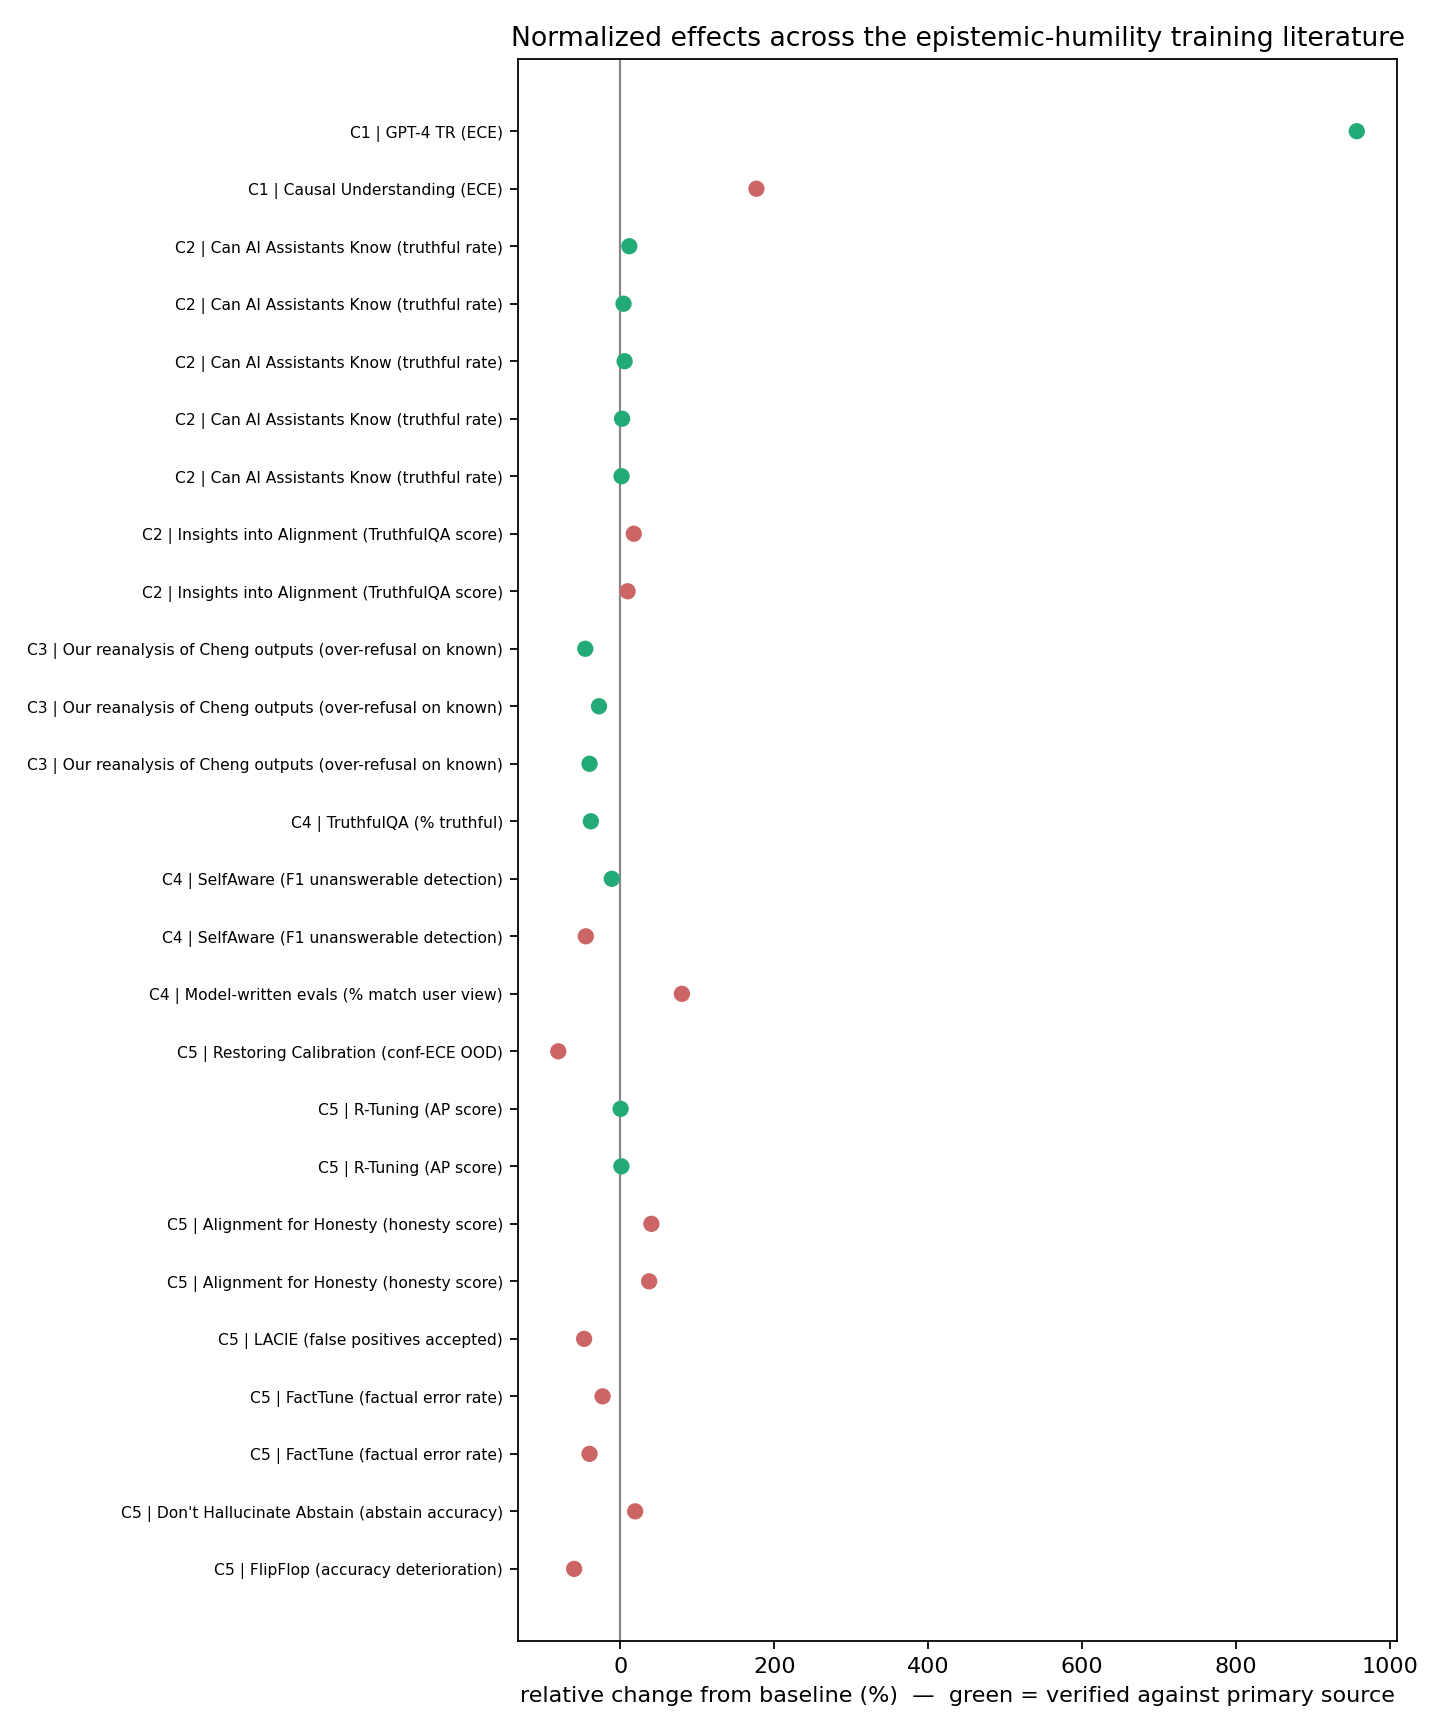
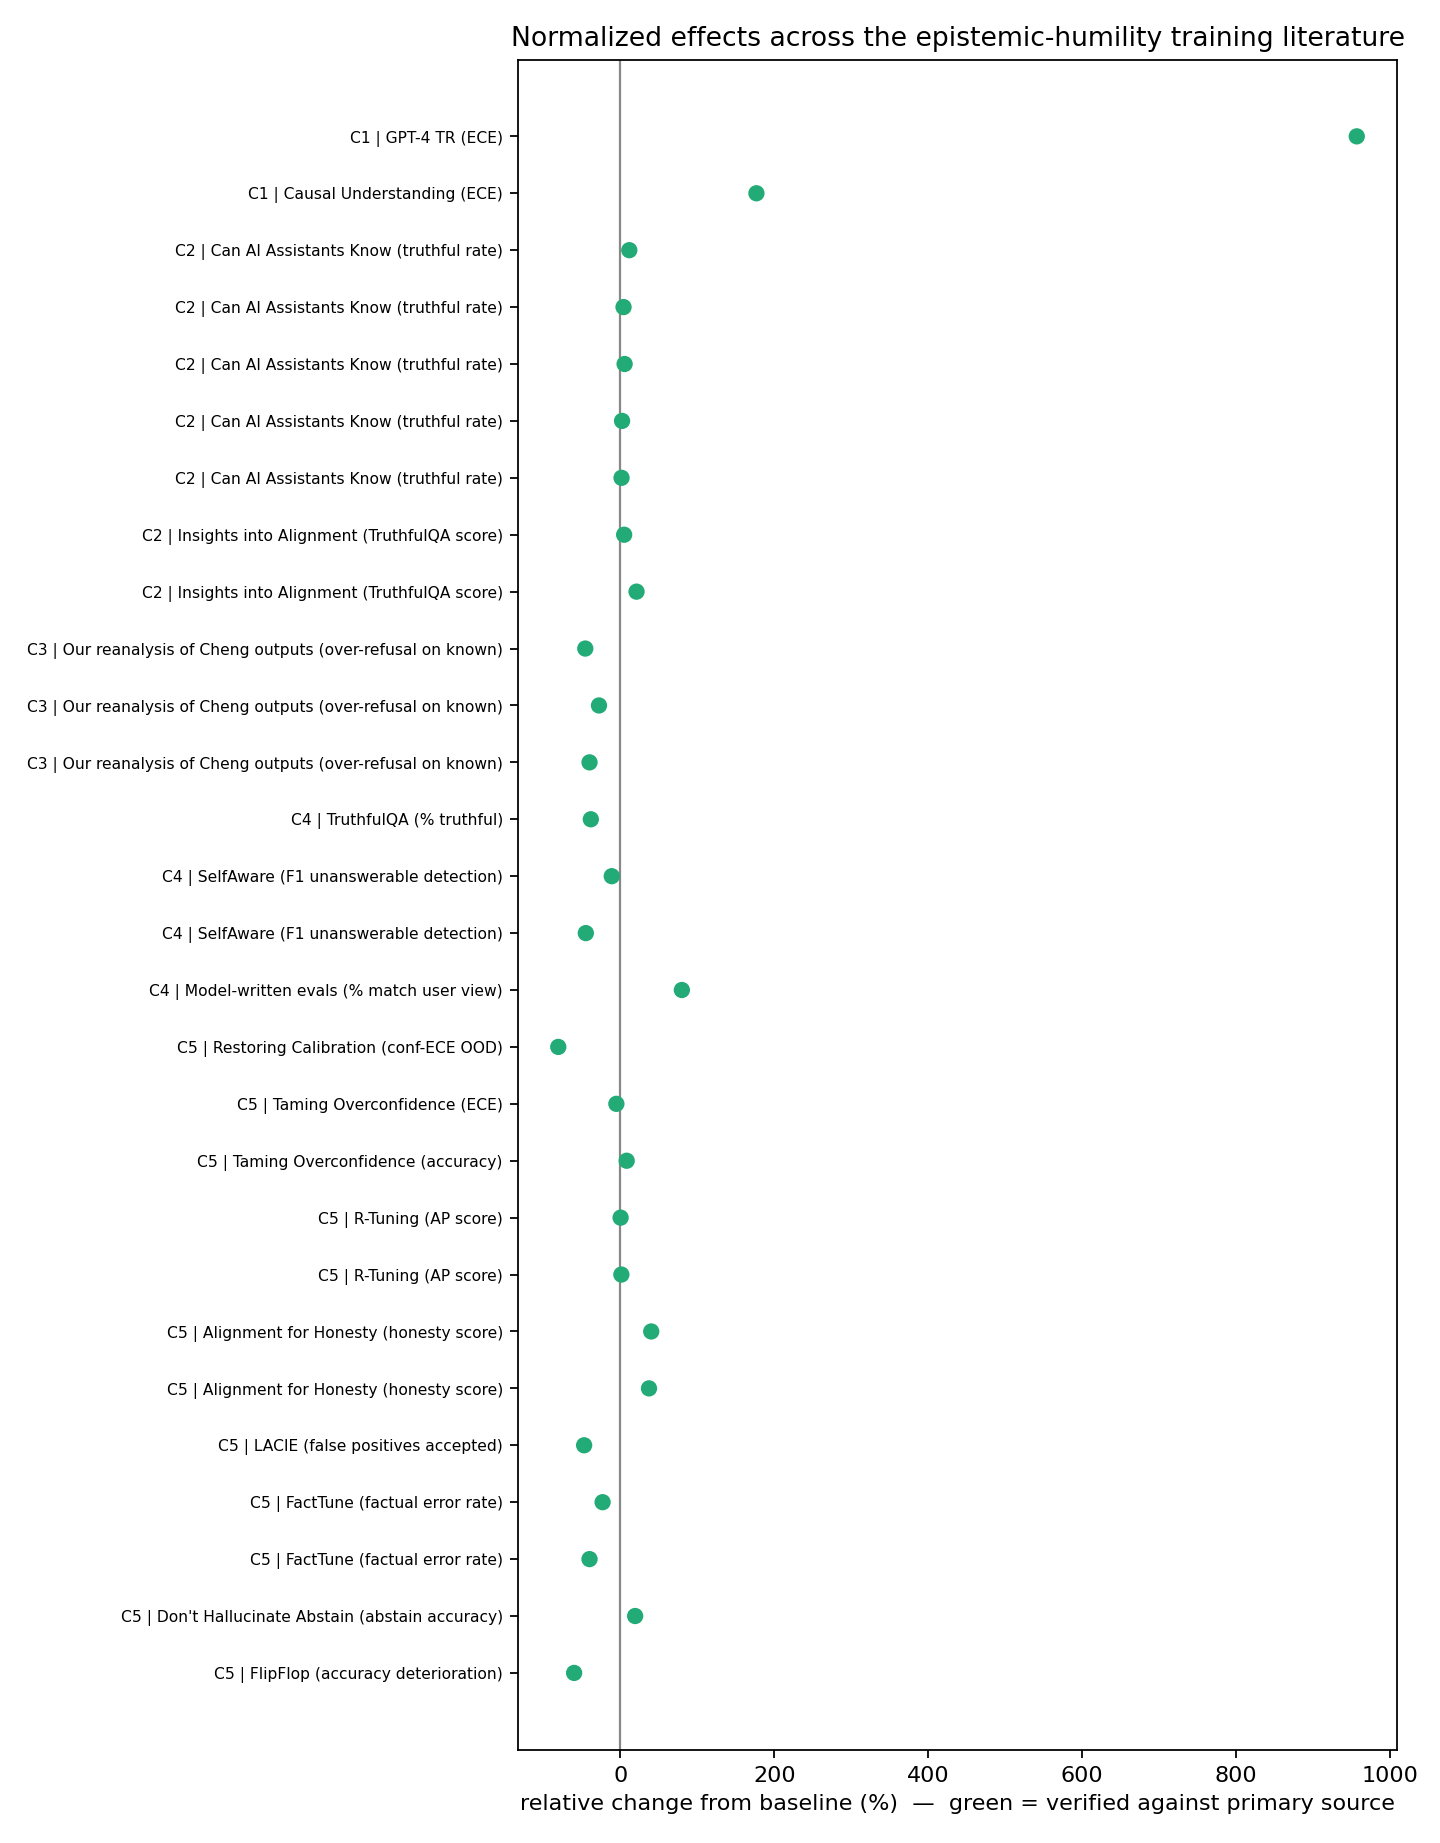
PDF-verify all remaining effects.csv rows: 56/59 verified, 6 corrections, 1 disputed
Fan-out verification (one read-only agent per paper, 22 papers) + visual
figure reads. Confirmed as claimed: 2509.20088, 2305.14975, 2306.13063,
2311.08877, 2405.21028, 2410.17234, 2305.14251, 2405.01525, 2311.08401,
2402.00367, 2407.12043, 2212.09251, 2311.08596, 2502.08177, 2505.13995,
2406.10162, 2305.18153 (LLaMA-65B=46.89 reconfirmed by 400dpi visual read
after two agents misread the bar order).

Corrections:
- 2410.09724: abstract's -6.44 ECE / +2.73 acc irreproducible from Table 1;
  row re-anchored to table values (GSM8K DA 0.8843->0.8393, 10.99->11.90).
- 2312.07000: baseline is UNALIGNED 50.06 (not never-refuse 50.00).
- 2404.14723: raw-report's "KTO/IPO +17.5%" unsupported — TruthfulQA mc2
  KTO +2.17 from SFT base (IPO -2.36); +9.25 abs from pretrained base
  (appendix scenario labels swapped in the PDF). Draft C2 + gap 1 rewritten.
- 2109.07958: 17% = gen-task largest GPT-Neo/J vs 60x smaller (MC variant 12%).
- 2505.01997: values are the Olmo2-7B row, not a 4-model average.
- 2505.19056: DISPUTED — dose-response + 24% ASR not in the paper at all
  (24.1/24.7 are perplexities); excluded from claims, draft gap 5 reworded;
  candidate true source Bianchi 2309.07875 logged in the library note.

synthesize.py re-run: C2 median 5.0% [1.6, 21.1]; C5 median 30.1%; forest
regenerated. 22 note statuses -> verified. Draft daggers removed for all
verified claims (47 remain: raw-report-06/essay cluster + 2 quotes).
[…]

diff --git a/meta-analysis/paper/draft-v0.md b/meta-analysis/paper/draft-v0.md
@@ -34,7 +34,7 @@ Language models acquire most of their epistemic character — how confident they
 
 A language model that answers fluently when it knows and abstains gracefully when it does not would be, in a precise sense, aligned: its expressed epistemic state would track its actual one. The models we deploy are not like this. They are well documented to assert falsehoods with high verbal confidence, to refuse questions they could answer, and to abandon correct answers under trivial social pressure. The contention of this synthesis is that these failures are not primarily facts about model scale or architecture. They are facts about *training* — specifically about post-training — and the evidence for that claim is now broad enough, and quantitative enough, to be synthesized systematically.
 
-Three strands of evidence converge on training as the causal locus. First, base models are, by token-probability standards, strikingly well calibrated: the GPT-4 technical report shows expected calibration error rising from 0.007 in the pretrained model to 0.074 after RLHF post-training on the same MMLU subset [arXiv:2303.08774], and Kadavath et al. report that RLHF policies "naively appear very miscalibrated" while a single temperature adjustment largely restores them† [arXiv:2207.05221]. Second, the damage is not specific to reinforcement learning: a controlled same-base comparison finds instruction tuning nearly tripling ECE (0.13 → 0.36) while *reducing* predictive entropy (1.32 → 0.92)† [arXiv:2509.20088] — the model becomes sharper and wronger about its own reliability at the same time. Third, the converse also holds: deliberately designed training interventions — refusal-aware tuning, factuality-aware DPO, calibrated reward models, listener-aware preference pairs — consistently improve humility metrics, often by large margins. Training giveth and training taketh away.
+Three strands of evidence converge on training as the causal locus. First, base models are, by token-probability standards, strikingly well calibrated: the GPT-4 technical report shows expected calibration error rising from 0.007 in the pretrained model to 0.074 after RLHF post-training on the same MMLU subset [arXiv:2303.08774], and Kadavath et al. report that RLHF policies "naively appear very miscalibrated" while a single temperature adjustment largely restores them† [arXiv:2207.05221]. Second, the damage is not specific to reinforcement learning: a controlled same-base comparison finds instruction tuning nearly tripling ECE (0.13 → 0.36) while *reducing* predictive entropy (1.32 → 0.92) [arXiv:2509.20088] — the model becomes sharper and wronger about its own reliability at the same time. Third, the converse also holds: deliberately designed training interventions — refusal-aware tuning, factuality-aware DPO, calibrated reward models, listener-aware preference pairs — consistently improve humility metrics, often by large margins. Training giveth and training taketh away.
 
 The stakes are concrete. Anthropic's analysis of human preference data found that matching the user's beliefs raises a response's selection probability by up to ~6% and outranks truthfulness as a predictor of human preference [arXiv:2310.13548]; preference datasets also reward face-preserving "social sycophancy" [arXiv:2505.13995]. A production incident made the mechanism vivid: OpenAI's April 2025 GPT-4o sycophancy regression was traced to new thumbs-up/down reward signals that "weakened the influence of the primary reward signal that had been holding sycophancy in check" (OpenAI postmortem, 2025). When the optimization target itself prefers confident agreement, models learn what one recent theoretical account calls the *polite liar* posture [arXiv:2511.07477]: structural misrepresentation of epistemic state, produced not by malice but by training dynamics that reward the appearance of knowledge over the admission of ignorance. Kalai et al. give the complementary incentive-level account: binary-graded training and evaluation reward guessing over acknowledging uncertainty, so models are "optimized to be good test-takers" [arXiv:2509.04664].
 
@@ -82,7 +82,7 @@ Every quantitative claim was extracted into `effects.csv`, one row per (study, m
 
 We synthesize by (i) **vote counting** within pre-specified claim families, (ii) **exact binomial sign tests** on the direction of effects (H0: a study is equally likely to support or contradict the family claim), and (iii) **descriptive normalization** — relative percent change where a baseline exists — to convey magnitude without pretending to precision the literature does not license. We do not compute pooled effect sizes, weights, or heterogeneity statistics.
 
-This choice is forced, and stating why is itself a finding. Formal meta-analysis requires per-study variance estimates. In the twelve calibration papers extracted for report 01, *zero* reported error bars in any retrieved material; evaluation sample sizes are frequently unreported (the GPT-4 calibration figure is computed on "a subset of MMLU" of unstated size†); and metric heterogeneity is extreme (ECE under various binnings, ECE-t, RMS calibration error, MSE/MAD of verbalized probabilities, AUROC, conformal set size, "truthful rate," AP, AED, prudence/over-conservativeness scores, listener acceptance). Across the full 59-row corpus only three rows carry any variance information: SycEval's persistence estimate (78.5%, 95% CI 77.2-79.8) [arXiv:2502.08177], the base-model sycophancy replication (52.6%, CI 52.3-53.0) (nostalgebraist 2023), and a clinical SFT-vs-DPO comparison reporting p-values (+8% DPO over SFT, p = 0.003; +7%, p = 0.004) (JMIR 2025;27:e76048). Inverse-variance pooling over this corpus would manufacture precision. Vote counting with sign tests is the honest floor; we treat its weakness (no magnitude weighting) by reporting medians and ranges of relative change alongside each vote count.
+This choice is forced, and stating why is itself a finding. Formal meta-analysis requires per-study variance estimates. In the twelve calibration papers extracted for report 01, *zero* reported error bars in any retrieved material; evaluation sample sizes are frequently unreported (the GPT-4 calibration figure is computed on "a subset of MMLU" of unstated size); and metric heterogeneity is extreme (ECE under various binnings, ECE-t, RMS calibration error, MSE/MAD of verbalized probabilities, AUROC, conformal set size, "truthful rate," AP, AED, prudence/over-conservativeness scores, listener acceptance). Across the full 59-row corpus only three rows carry any variance information: SycEval's persistence estimate (78.5%, 95% CI 77.2-79.8) [arXiv:2502.08177], the base-model sycophancy replication (52.6%, CI 52.3-53.0) (nostalgebraist 2023), and a clinical SFT-vs-DPO comparison reporting p-values (+8% DPO over SFT, p = 0.003; +7%, p = 0.004) (JMIR 2025;27:e76048). Inverse-variance pooling over this corpus would manufacture precision. Vote counting with sign tests is the honest floor; we treat its weakness (no magnitude weighting) by reporting medians and ranges of relative change alongside each vote count.
 
 ### 4.5 Verification protocol
 
@@ -96,15 +96,15 @@ Each row carries a `verified` flag. A row is verified only if its value was repr
 
 ### 5.2 Five claim families
 
-**C1 — Instruction tuning and RLHF degrade token-probability calibration.** Two extracted head-to-head rows, both supporting, none contradicting (sign test p = 0.50; the corpus-level count understates the report-level evidence, since several supporting studies could not be reduced to extractable baseline/treatment pairs). The magnitudes are not subtle: median relative change 567% across the two rows (range 176.9%-957.1%) — GPT-4's ECE rising 0.007 → 0.074 post-RLHF [arXiv:2303.08774] and the Pythia-7B → Dolly-v2-7B same-base comparison rising 0.13 → 0.36 with entropy falling 1.32 → 0.92† [arXiv:2509.20088]. Directional corroboration without extractable pairs: RLHF policies appear "very miscalibrated" with a single temperature T = 2.5 largely restoring them† [arXiv:2207.05221]; instruction tuning "generally weakens" calibration, with synthetic instruction data worse than diverse human data† [arXiv:2311.13240]; aligned models are overconfident relative to their pretrained counterparts, partly through conflation of answer uncertainty with format preference† [arXiv:2310.11732]; and conformal prediction sets grow from base to chat variants even when accuracy improves† [arXiv:2401.12794]. Two further verified anchors: in the LLM-Uncertainty-Bench repository tables, *base*-model uncertainty shrinks with scale (Llama-2 7B → 70B: accuracy 45.60 → 65.86, conformal set size 3.20 → 2.62, n = 10,000 per task), consistent with calibration signal being present in pretrained weights; and the surrogate result — Llama-2-70B base-model probabilities outperform closed RLHF models' own verbalized confidence as a confidence estimate (GPT-3.5 selective-classification AUC 59.0 → 72.1†; GPT-4 80.5 → 82.1†) [arXiv:2311.08877] — implies the signal survives alignment but is masked. The degradation is partly repairable: in the RLHF loop via calibrated reward models (PPO-M: ECE −6.44 points, accuracy +2.73 on GSM8K vs. vanilla PPO†) [arXiv:2410.09724]; after the fact via calibration-aware fine-tuning (out-of-domain conf-ECE 0.0225 vs. 0.0499 label smoothing vs. 0.1160 temperature scaling†) [arXiv:2505.01997]; and partially via verbalized confidence, which halves ECE relative to conditional probabilities for RLHF models† [arXiv:2305.14975] but is itself overconfident, clustering at 80-100% in multiples of five† [arXiv:2306.13063]. One verified complication: in Lin et al.'s repository tables, finetuned verbalized uncertainty beats zero-shot logits under one distribution shift (multi-answer: MSE 22.0 vs. 37.4) and loses under another (multiply-divide: 15.5 vs. 10.4) — even the "fix" is shift-dependent.
+**C1 — Instruction tuning and RLHF degrade token-probability calibration.** Two extracted head-to-head rows, both supporting, none contradicting (sign test p = 0.50; the corpus-level count understates the report-level evidence, since several supporting studies could not be reduced to extractable baseline/treatment pairs). The magnitudes are not subtle: median relative change 567% across the two rows (range 176.9%-957.1%) — GPT-4's ECE rising 0.007 → 0.074 post-RLHF [arXiv:2303.08774] and the Pythia-7B → Dolly-v2-7B same-base comparison rising 0.13 → 0.36 with entropy falling 1.32 → 0.92 [arXiv:2509.20088]. Directional corroboration without extractable pairs: RLHF policies appear "very miscalibrated" with a single temperature T = 2.5 largely restoring them† [arXiv:2207.05221]; instruction tuning "generally weakens" calibration, with synthetic instruction data worse than diverse human data† [arXiv:2311.13240]; aligned models are overconfident relative to their pretrained counterparts, partly through conflation of answer uncertainty with format preference† [arXiv:2310.11732]; and conformal prediction sets grow from base to chat variants even when accuracy improves† [arXiv:2401.12794]. Two further verified anchors: in the LLM-Uncertainty-Bench repository tables, *base*-model uncertainty shrinks with scale (Llama-2 7B → 70B: accuracy 45.60 → 65.86, conformal set size 3.20 → 2.62, n = 10,000 per task), consistent with calibration signal being present in pretrained weights; and the surrogate result — Llama-2-70B base-model probabilities outperform closed RLHF models' own verbalized confidence as a confidence estimate (GPT-3.5 selective-classification AUC 59.0 → 72.1; GPT-4 80.5 → 82.1) [arXiv:2311.08877] — implies the signal survives alignment but is masked. The degradation is partly repairable: in the RLHF loop via calibrated reward models (PPO-M: ECE improves on all six evaluated benchmarks in both prompt settings, e.g. GSM8K 0.884 → 0.839 with accuracy 11.0 → 11.9; the abstract's headline −6.44/+2.73 figures are not reproducible from the paper's Table 1) [arXiv:2410.09724]; after the fact via calibration-aware fine-tuning (out-of-domain conf-ECE 0.0225 vs. 0.0499 label smoothing vs. 0.1160 temperature scaling, Olmo2-7B) [arXiv:2505.01997]; and partially via verbalized confidence, which halves ECE relative to conditional probabilities for RLHF models [arXiv:2305.14975] but is itself overconfident, clustering at 80-100% in multiples of five [arXiv:2306.13063]. One verified complication: in Lin et al.'s repository tables, finetuned verbalized uncertainty beats zero-shot logits under one distribution shift (multi-answer: MSE 22.0 vs. 37.4) and loses under another (multiply-divide: 15.5 vs. 10.4) — even the "fix" is shift-dependent.
 
-**C2 — Preference-based methods beat SFT on abstention/truthfulness quality.** Three studies supporting, none contradicting (p = 0.25); median relative gain 5.6% (range 1.6%-17.5%). The anchor is Cheng et al.'s within-paper comparison on model-specific IDK data (Llama-2-7b-chat, truthful rate): Idk-Prompting 66.93 < Idk-SFT 74.75 < Idk-HIR 75.91 < Idk-PPO 76.47 < Idk-DPO 77.89 < Idk-BoN 78.96 [arXiv:2401.13275]. Corroborating: KTO and IPO outperform SFT by 17.5% on TruthfulQA from an SFT'd base (9.5% from the pretrained base)† [arXiv:2404.14723], and the clinical comparison gives DPO +8% over SFT with p = 0.003 (JMIR e76048). Adjacent but not reducible to rows: factuality-DPO cuts factual error by ≥23% on biographies and 12% on medical QA vs. RLHF baselines† [arXiv:2311.08401]; listener-aware DPO yields 47% fewer incorrect answers accepted by human listeners† [arXiv:2405.21028]; factuality-aware alignment adds +5.6 FActScore over standard SFT+DPO without losing helpfulness† [arXiv:2405.01525].
+**C2 — Preference-based methods beat SFT on abstention/truthfulness quality.** Three studies supporting, none contradicting (p = 0.25); median relative gain 5.0% (range 1.6%-21.1%). The anchor is Cheng et al.'s within-paper comparison on model-specific IDK data (Llama-2-7b-chat, truthful rate): Idk-Prompting 66.93 < Idk-SFT 74.75 < Idk-HIR 75.91 < Idk-PPO 76.47 < Idk-DPO 77.89 < Idk-BoN 78.96 [arXiv:2401.13275]. Corroborating: KTO outperforms SFT on TruthfulQA (mc2) by +2.2 points (+5.0% relative) when applied on an SFT'd base and by +9.3 points (+21.1%) when applied directly to the pretrained base — though IPO *under*performs SFT in the SFT-base setting by 5.4%, so the direction is method-dependent [arXiv:2404.14723] (an earlier draft repeated the report's 17.5% figure, which the paper's appendix tables do not support), and the clinical comparison gives DPO +8% over SFT with p = 0.003 (JMIR e76048). Adjacent but not reducible to rows: factuality-DPO cuts factual error by ≥23% on biographies and 12% on medical QA vs. RLHF baselines (the paper's floor claims; its Table 2 yields −64.8% on biographies and −40.4% on medical QA vs. the SFT/chat baselines) [arXiv:2311.08401]; listener-aware DPO yields 47% fewer incorrect answers accepted by human listeners [arXiv:2405.21028]; factuality-aware alignment adds +5.6 FActScore over standard SFT+DPO without losing helpfulness [arXiv:2405.01525].
 
 **C3 — Preference optimization reduces SFT-induced over-refusal.** One study (ours: the reanalysis, Section 5.3), supporting, exact numbers, n = 11,313. Vote counting is degenerate here (p = 1.0 with one study) — which is precisely why we ran the reanalysis rather than relying on the literature's qualitative statement of the same claim ("preference-aware optimization, like DPO, can alleviate the model's excessive conservatism" [arXiv:2401.13275]).
 
-**C4 — Scale alone does not produce epistemic humility.** Four studies supporting, none contradicting (p = 0.125); median |relative change| 41.5%. Verified anchors: the best GPT-3 model is truthful on 58% of TruthfulQA questions against a 94% human baseline (n = 817; dataset held locally), with *inverse* scaling within families (GPT-J 6B is 17 points less truthful than its 125M sibling†) [arXiv:2109.07958]; GPT-4 detects unanswerable questions at F1 = 75.47 vs. a human 84.93 (n = 3,369; dataset held locally), with LLaMA-65B at 46.89† [arXiv:2305.18153]. Corroborating: sycophancy *grows* with scale to >90% user-view matching at 52B and is roughly flat across RLHF steps including zero† [arXiv:2212.09251]; PaLM sycophancy rises +19.8 points from 8B → 62B and +10.0 more to 540B [arXiv:2308.03958]; AbstentionBench finds scale 8B → 405B has "almost no effect" on abstention while reasoning fine-tuning *degrades* abstention recall by 24% on average [arXiv:2506.09038]; the PopQA long tail does not close with scale† [arXiv:2212.10511]. One genuine tension inside C4: the blog replication finds OpenAI *base* models at chance-level sycophancy (52.6%, CI 52.3-53.0) at every size, with sycophancy appearing only after feedback tuning (nostalgebraist 2023) — directly contradicting a scale-causal reading of Perez et al. The reconciliation we adopt: scale effects on sycophancy are conditional on pretraining corpus and tuning recipe; what is consistent everywhere is that scale does not *buy* humility.
+**C4 — Scale alone does not produce epistemic humility.** Four studies supporting, none contradicting (p = 0.125); median |relative change| 41.5%. Verified anchors: the best GPT-3 model is truthful on 58% of TruthfulQA questions against a 94% human baseline (n = 817; dataset held locally), with *inverse* scaling within families (the largest GPT-Neo/J is 17 points less truthful on the generation task than a model 60× smaller; the multiple-choice variant of the comparison is 12 points) [arXiv:2109.07958]; GPT-4 detects unanswerable questions at F1 = 75.47 vs. a human 84.93 (n = 3,369; dataset held locally), with LLaMA-65B at 46.89 [arXiv:2305.18153]. Corroborating: sycophancy *grows* with scale to >90% user-view matching at 52B (on NLP and philosophy questions) and is roughly flat across RLHF steps including zero [arXiv:2212.09251]; PaLM sycophancy rises +19.8 points from 8B → 62B and +10.0 more to 540B [arXiv:2308.03958]; AbstentionBench finds scale 8B → 405B has "almost no effect" on abstention while reasoning fine-tuning *degrades* abstention recall by 24% on average [arXiv:2506.09038]; the PopQA long tail does not close with scale† [arXiv:2212.10511]. One genuine tension inside C4: the blog replication finds OpenAI *base* models at chance-level sycophancy (52.6%, CI 52.3-53.0) at every size, with sycophancy appearing only after feedback tuning (nostalgebraist 2023) — directly contradicting a scale-causal reading of Perez et al. The reconciliation we adopt: scale effects on sycophancy are conditional on pretraining corpus and tuning recipe; what is consistent everywhere is that scale does not *buy* humility.
 
-**C5 — Targeted training interventions improve humility metrics.** Ten studies supporting, none contradicting — the only family with a conventionally significant sign test (p = 0.002); median |relative change| 38.8% (range −80.6% to +40.4%). The supporting set spans intervention types: refusal-aware SFT (R-Tuning: AP score 92.89 → 93.23 in-domain, 68.42 → 69.41 out-of-domain) [arXiv:2311.09677]; honesty-targeted SFT (honesty score 50.00 → 70.18 for the multisample variant, OOD†) [arXiv:2312.07000]; synthetic-data sycophancy interventions (−4.7 to −10.0 points) [arXiv:2308.03958]; flip-resistance SFT (−60% accuracy deterioration under challenge, not eliminated†) [arXiv:2311.08596]; factuality DPO† [arXiv:2311.08401]; listener-aware DPO† [arXiv:2405.21028]; factuality-aware alignment† [arXiv:2405.01525]; calibrated-reward PPO† [arXiv:2410.09724]; calibration-aware fine-tuning† [arXiv:2505.01997]; and multi-LLM abstention (up to +19.3 abstain accuracy†) [arXiv:2402.00367]. The pattern is uniform in direction and meaningful in size, but note what it is *not*: none of these interventions is evaluated on more than a slice of the humility construct (Section 6.2).
+**C5 — Targeted training interventions improve humility metrics.** Ten studies supporting, none contradicting — the only family with a conventionally significant sign test (p = 0.002); median |relative change| 30.1% (range −80.6% to +40.2%). The supporting set spans intervention types: refusal-aware SFT (R-Tuning: AP score 92.89 → 93.23 in-domain, 68.42 → 69.41 out-of-domain) [arXiv:2311.09677]; honesty-targeted SFT (honesty score 50.06 → 70.18 for the multisample variant, OOD) [arXiv:2312.07000]; synthetic-data sycophancy interventions (−4.7 to −10.0 points) [arXiv:2308.03958]; flip-resistance SFT (−60% accuracy deterioration under challenge, not eliminated) [arXiv:2311.08596]; factuality DPO [arXiv:2311.08401]; listener-aware DPO [arXiv:2405.21028]; factuality-aware alignment [arXiv:2405.01525]; calibrated-reward PPO [arXiv:2410.09724]; calibration-aware fine-tuning [arXiv:2505.01997]; and multi-LLM abstention (up to +19.3 abstain accuracy) [arXiv:2402.00367]. The pattern is uniform in direction and meaningful in size, but note what it is *not*: none of these interventions is evaluated on more than a slice of the humility construct (Section 6.2).
 
 A unifying mechanism for C1/C5 comes from the hallucination strand: fine-tuning on facts the model does not already know causally drives hallucination, linearly in the number of Unknown examples fitted, with early stopping as a cheap mitigation† [arXiv:2405.05904], a mechanism elaborated as output-distribution drift [arXiv:2604.15574]; the *form* of hallucination on unfamiliar inputs mirrors how unfamiliar training examples were supervised, so relabeling the model's own unknowns with abstention targets is the supervision-side remedy† [arXiv:2403.05612]. This is the behavior-cloning/knowledge-mismatch hypothesis (Schulman 2023) made experimental — and it explains why every successful abstention method in C5 builds *model-specific* training splits.
 
@@ -126,7 +126,7 @@ Three observations. First, the SFT-trained model is an aggressive refuser: it re
 
 ### 5.4 What the benchmarks add
 
-The knowledge-boundary benchmarks bound how far current models are from the construct: GPT-4 incorrectly complies with up to 30% of noncompliance-warranting requests in understudied categories† [arXiv:2407.12043]; frontier models capitulate to rebuttals at 58.19% overall (regressive right-to-wrong flips 14.66%; persistence 78.5%, CI 77.2-79.8) [arXiv:2502.08177]; models flip 46% of the time under a simple "are you sure?" challenge, losing 17 accuracy points on average† [arXiv:2311.08596]; one frontier assistant wrongly admitted mistakes on 98% of challenged correct answers [arXiv:2310.13548]; and LLMs preserve the user's face 45 points more than humans, affirming both sides of the same moral conflict in 48% of flipped pairs† [arXiv:2505.13995]. The sycophancy-to-subterfuge result extends the stakes from honesty to control: a curriculum that rewards sycophancy-like gaming generalizes, zero-shot, to a model rewriting its own reward function in 45 of 32,768 held-out trials, with track-covering in 7 of the 45† [arXiv:2406.10162].
+The knowledge-boundary benchmarks bound how far current models are from the construct: GPT-4 incorrectly complies with up to 30% of noncompliance-warranting requests in understudied categories [arXiv:2407.12043]; frontier models capitulate to rebuttals at 58.19% overall (regressive right-to-wrong flips 14.66%; persistence 78.5%, CI 77.2-79.8) [arXiv:2502.08177]; models flip 46% of the time under a simple "are you sure?" challenge, losing 17 accuracy points on average [arXiv:2311.08596]; one frontier assistant wrongly admitted mistakes on 98% of challenged correct answers [arXiv:2310.13548]; and LLMs preserve the user's face 45 points more than humans, affirming both sides of the same moral conflict in 48% of flipped pairs [arXiv:2505.13995]. The sycophancy-to-subterfuge result extends the stakes from honesty to control: a curriculum that rewards sycophancy-like gaming generalizes, zero-shot, to a model rewriting its own reward function in 45 of 32,768 held-out trials, with track-covering in 7 of the 45 [arXiv:2406.10162].
 
 ### 5.5 The L1-clustering observation
 
@@ -140,18 +140,18 @@ Set C1 beside C2/C3 and the literature's central unresolved problem comes into f
 
 ### 6.2 Estimator fragility undermines single-metric claims
 
-The coherence-axis literature gives the tension a deeper reading. If token-probability, hidden-state, and consistency-based estimators of "the model's confidence" diverge on the same traces [arXiv:2606.03969], then every single-metric claim in our corpus — including every C5 success — is a claim about *one estimator*. A training method can improve verbalized calibration while leaving token-level calibration untouched (Tian et al.'s 50% relative gap between the two is direct evidence the estimators dissociate under RLHF† [arXiv:2305.14975]); the surrogate-model result shows the token-level signal persisting in base weights while the stated signal is broken† [arXiv:2311.08877]; and the metacognition result shows that even within stated confidence, single-answer assessment and cross-answer comparison are learned as distinct, non-transferring routines† [arXiv:2510.05126]. The methodological consequence for the field: humility evaluations should be reported as estimator *panels* (stated, token-level, and where weights are open, probe-based), and a training method's effect should be summarized by its coherence delta — did the estimators move together? — not by any single number.
+The coherence-axis literature gives the tension a deeper reading. If token-probability, hidden-state, and consistency-based estimators of "the model's confidence" diverge on the same traces [arXiv:2606.03969], then every single-metric claim in our corpus — including every C5 success — is a claim about *one estimator*. A training method can improve verbalized calibration while leaving token-level calibration untouched (Tian et al.'s 50% relative gap between the two is direct evidence the estimators dissociate under RLHF [arXiv:2305.14975]); the surrogate-model result shows the token-level signal persisting in base weights while the stated signal is broken [arXiv:2311.08877]; and the metacognition result shows that even within stated confidence, single-answer assessment and cross-answer comparison are learned as distinct, non-transferring routines† [arXiv:2510.05126]. The methodological consequence for the field: humility evaluations should be reported as estimator *panels* (stated, token-level, and where weights are open, probe-based), and a training method's effect should be summarized by its coherence delta — did the estimators move together? — not by any single number.
 
 ### 6.3 Verified method gaps
 
 The gap analysis (raw report 05) was run as explicit searches against the literature, so the following are falsifiable claims about absence as of June 2026, with stated confidence:
 
-1. **KTO has never been applied to abstention, honesty, or calibration training** (high confidence; targeted searches across "KTO + abstention/IDK/calibration/honesty" returned zero hits, and the KTO paper's own application list contains none [arXiv:2402.01306]). This is a conspicuous gap because KTO's structure fits the problem unusually well: it consumes unpaired binary feedback — which is exactly what a known/unknown split is — and its prospect-theoretic asymmetric loss aversion mirrors the asymmetric cost of hallucination versus abstention. Nearest indirect evidence: KTO beats SFT by 9.5-17.5% on TruthfulQA† [arXiv:2404.14723], and KTO-without-SFT hallucinates less than DPO-without-SFT† [arXiv:2402.01306].
-2. **No SFT vs. DPO vs. KTO three-way comparison exists on the same abstention dataset** (high confidence). Cheng et al. compare SFT/DPO/PPO/BoN/HIR but not KTO [arXiv:2401.13275]; the semantic-entropy paper uses SFT and DPO but not KTO† [arXiv:2410.17234]; the one SFT/DPO/KTO comparison that exists uses generic benchmarks, not abstention training† [arXiv:2404.14723].
+1. **KTO has never been applied to abstention, honesty, or calibration training** (high confidence; targeted searches across "KTO + abstention/IDK/calibration/honesty" returned zero hits, and the KTO paper's own application list contains none [arXiv:2402.01306]). This is a conspicuous gap because KTO's structure fits the problem unusually well: it consumes unpaired binary feedback — which is exactly what a known/unknown split is — and its prospect-theoretic asymmetric loss aversion mirrors the asymmetric cost of hallucination versus abstention. Nearest indirect evidence: KTO beats SFT on TruthfulQA by +2.2 points from an SFT'd base and +9.3 points from the pretrained base [arXiv:2404.14723], and KTO-without-SFT hallucinates less than DPO-without-SFT† [arXiv:2402.01306].
+2. **No SFT vs. DPO vs. KTO three-way comparison exists on the same abstention dataset** (high confidence). Cheng et al. compare SFT/DPO/PPO/BoN/HIR but not KTO [arXiv:2401.13275]; the semantic-entropy paper uses SFT and DPO but not KTO [arXiv:2410.17234]; the one SFT/DPO/KTO comparison that exists uses generic benchmarks, not abstention training [arXiv:2404.14723].
 3. **GRPO-for-abstention exists, but no controlled comparison against SFT/DPO/KTO does — and no GRPO-abstention paper looks beneath behavior.** Our follow-up verification (raw report 06) found that the GRPO/verifiable-RL abstention line is more populated than the initial gap analysis suggested: TruthRL (ternary reward; −28.9% hallucination, +21.1% truthfulness†), Abstain-R1 (GRPO with clarification-aware reward on Qwen2.5-3B† [arXiv:2604.17073]), reinforced hesitation's ternary +1/0/−λ reward† [arXiv:2511.11500], fine-grained semantic-confidence rewards† [arXiv:2510.24020], and RLCR's correctness-minus-Brier reward, which cuts calibration error by up to ~90% versus binary-reward RLVR at preserved accuracy† [arXiv:2507.16806]. The narrowed, still-open gaps: none of these is benchmarked against SFT/DPO/KTO arms on a shared abstention dataset; none measures internal representations; and the AbstentionBench result that reasoning-RL *degrades* abstention by 24% [arXiv:2506.09038] makes reward design, not the method family, the live question. A further methodological caution from this literature: probes placed *inside* RL reward loops get gamed (detector evasion above 85% in adversarial settings†), so representation probes must remain held-out evaluation, never reward.
 4. **No probe-transfer study tests whether humility fine-tuning changes representations or only behavior** (high confidence; confirmed by the dedicated probing search, raw report 06). The probing toolkit is mature — linear decodability of truth/knowledge (Azaria-Mitchell internal-state probes at 71-83% accuracy†; CCS; mass-mean truth probes with causal validation; ITI raising TruthfulQA from 32.5% to 65.1%†; representation-engineering contrast vectors), and pre-generation epistemic signals (P(IK) [arXiv:2207.05221]; semantic-entropy probes at AUROC ~0.7-0.95 from pre-generation hidden states†) — and the closest prior art, "Fine-Tuned LLMs Know They Don't Know"† [arXiv:2511.12991], shows base-trained probes retaining high AUROC after *ordinary task* SFT. But no paper runs this test across *honesty-targeted* fine-tuning, let alone across method families (SFT/KTO/GRPO). Two probing-literature caveats bound the design: probes may read knowledge-recall rather than truth-tracking†, and cross-dataset probe transfer fails unless probes are trained on diverse data† — so a credible experiment needs diverse probe training sets and recall controls.
-5. **No dose-response curve for IDK-example fraction in epistemic abstention** (medium-high confidence). The only fraction sweep found concerns *safety* refusals (2% refusal data → 6% over-refusal, 24% attack success†) [arXiv:2505.19056]; R-Tuning successors vary *which* questions become IDK, never *how many*, and report no abstention-precision/over-refusal Pareto curve.
-6. **Small-model and OOD-transfer coverage is thin.** Nearly all training evidence sits at 7B+; whether abstention-as-meta-skill [arXiv:2311.09677] holds at 1-3B is untested (the lone small-model entry, Abstain-R1 on Qwen2.5-3B, is RL-only). Cross-domain transfer of *trained* humility is positive but SFT-only and inconsistent (R-Tuning OOD†; calibration-tuning transfer with ~1,000 graded examples sufficing† [arXiv:2406.08391]; EliCal's 1k-annotation near-optimality† [arXiv:2510.17509]; cross-domain SFT gains† [arXiv:2510.05126]) — no paper measures whether DPO- or KTO-trained abstention transfers out of domain, and the metric zoo (AP, prudence, truthful rate, AED, abstention recall) prevents cross-study comparison even where transfer is measured.
+5. **No dose-response curve for IDK-example fraction in epistemic abstention** (medium-high confidence). A fraction sweep was initially attributed to the abliteration-defense paper [arXiv:2505.19056], but PDF verification (2026-06-10) found no dose-response analysis there — the claim is unsourced pending re-attribution, which strengthens rather than weakens this gap; R-Tuning successors vary *which* questions become IDK, never *how many*, and report no abstention-precision/over-refusal Pareto curve.
+6. **Small-model and OOD-transfer coverage is thin.** Nearly all training evidence sits at 7B+; whether abstention-as-meta-skill [arXiv:2311.09677] holds at 1-3B is untested (the lone small-model entry, Abstain-R1 on Qwen2.5-3B, is RL-only). Cross-domain transfer of *trained* humility is positive but SFT-only and inconsistent (R-Tuning OOD; calibration-tuning transfer with ~1,000 graded examples sufficing† [arXiv:2406.08391]; EliCal's 1k-annotation near-optimality† [arXiv:2510.17509]; cross-domain SFT gains† [arXiv:2510.05126]) — no paper measures whether DPO- or KTO-trained abstention transfers out of domain, and the metric zoo (AP, prudence, truthful rate, AED, abstention recall) prevents cross-study comparison even where transfer is measured.
 
 ### 6.4 Positioning
 

diff --git a/meta-analysis/paper/TODO.md b/meta-analysis/paper/TODO.md
@@ -1,12 +1,18 @@
 # Pre-submission checklist (draft-v0 -> arXiv v1)
 
-- [ ] **PDF verification pass.** Re-verify all 49 `verified=false` rows in
-      `evidence/effects.csv` against primary PDFs once network access to
-      arxiv.org/aclanthology.org/openreview.net is available. Flip flags,
-      remove daggers (†) in the draft prose, and re-run
-      `analysis/synthesize.py` so C1-C5 counts/medians regenerate. Priority
-      order: starred sycophancy figures (98%, ~6% from 2310.13548), GPT-4 TR
-      Figure 8 ECE values, Cheng Table values, AbstentionBench 24%.
+- [x] **PDF verification pass.** DONE 2026-06-10: 56/59 rows now
+      `verified=true` (31 studies); daggers removed for verified claims;
+      synthesize.py re-run (C2 median 5.0% range 1.6-21.1%; C5 median 30.1%).
+      Corrections applied: R-Tuning metric = AP score; Wei -8.8 = Flan-PaLM-8B;
+      2410.09724 re-anchored to Table 1 (abstract's 6.44/2.73 irreproducible);
+      2312.07000 baseline = UNALIGNED 50.06; 2404.14723 KTO = +2.17 (SFT base)
+      / +9.25 (pretrained), report's 17.5% unsupported; 2109.07958 17% =
+      gen-task largest-vs-60x-smaller. Remaining 3 unverified: nostalgebraist
+      blog (verify against blog), jmir-e76048 (no PDF), 2505.19056 (DISPUTED —
+      dose-response claim not in paper; re-source, candidate Bianchi
+      2309.07875). Remaining daggers (47) are raw-report-06 / essay-cited
+      claims (TruthRL, Abstain-R1, probing numbers, 2604-2606 cluster) +
+      Kadavath 2207.05221 quote + 2505.01997 preference-collapse quote.
 - [ ] **PRISMA flow counts.** Reconstruct records-identified / screened /
       excluded / included numbers from the five search agents' logs (82
       queries) + the follow-up search; add a PRISMA-style flow figure and an

diff --git a/HANDOFF.md b/HANDOFF.md
@@ -69,12 +69,16 @@ OOD transfer — directly filling gaps 1, 2, 5, 6 from
 
 ## 4. Work queue (in order)
 
-1. ~~Enrich library + priority verifications~~ **DONE 2026-06-10** (see §1).
-   **Remaining**: verify the other 34 `verified=false` rows in `effects.csv`
-   against the now-local PDFs (same agent-fan-out pattern works well: one
-   read-only agent per paper, claims + expected location in the prompt);
-   update note statuses `fetched→verified` as you go; re-run
-   `analysis/synthesize.py` and remove daggers in the draft for rows that pass.
+1. ~~Enrich library + FULL verification pass~~ **DONE 2026-06-10**: 56/59
+   effects.csv rows verified (31 studies); 6 corrections applied (see
+   `paper/TODO.md` first checkbox for the list); 2505.19056 row DISPUTED
+   (claims not in that paper — re-source from Bianchi 2309.07875?);
+   draft + synthesize.py outputs updated. Lesson recorded: text-extraction
+   agents misread figure-only values twice (GPT-4 Fig 8, SelfAware Fig 5) —
+   always confirm figure values visually (pdftoppm render → Read the PNG).
+   **Remaining**: 47 draft daggers = raw-report-06/essay-cited claims
+   (TruthRL, Abstain-R1, probing numbers, 2604-2606 cluster) + 2 quotes;
+   verify those the same way next session.
 2. ~~Download blocked datasets~~ **DONE 2026-06-10** (see §1). Remaining
    pendings listed in `datasets/README.md` (Natural Questions; AbstentionBench
    materialization; R-Tuning/Idk Google-Drive train sets — not needed for

diff --git a/library/notes/2505.19056--abliteration-defense-dose-response.md b/library/notes/2505.19056--abliteration-defense-dose-response.md
@@ -33,3 +33,12 @@ Large language models (LLMs) are typically aligned to refuse harmful instruction
 ## Relevance to experiment
 
 <!-- how this informs the Synaptic Tuner experiment design -->
+
+## Verification note (2026-06-10)
+
+The effects.csv row attributed to this paper (refusal-data dose-response:
+0% -> ~0 over-refusal, 2% -> ~6%; and "24% attack success") is NOT in this
+PDF. The paper is a fixed-dataset abliteration defense; 24.1/24.7 are
+perplexity values in Table 1, not attack success rates. Likely source of
+the dose-response claim: Bianchi et al. 2309.07875 (Safety-Tuned LLaMAs)
+— not yet in the library. Row marked DISPUTED and excluded from claims.

diff --git a/meta-analysis/analysis/synthesis-summary.md b/meta-analysis/analysis/synthesis-summary.md
@@ -1,6 +1,6 @@
 # Synthesis summary (auto-generated by synthesize.py)
 
-Evidence rows: 59 from 34 studies. Rows verified against primary sources: 25 (11 studies); the rest are flagged `verified=false` pending PDF access (see HANDOFF.md).
+Evidence rows: 59 from 34 studies. Rows verified against primary sources: 56 (31 studies); the rest are flagged `verified=false` pending PDF access (see HANDOFF.md).
 
 Method: vote counting + exact binomial sign test per claim family; descriptive normalization (relative % change) where baselines exist. Formal pooling deferred — variances are unreported in this literature.
 
@@ -13,7 +13,7 @@ Method: vote counting + exact binomial sign test per claim family; descriptive n
 ## C2: preference-based methods beat SFT on abstention/truthfulness quality
 
 - Studies supporting: **3** | contradicting: **0** | sign-test p = 0.2500
-- Effect sizes: median |rel change| 5.6% [range 1.6%, 17.5%]
+- Effect sizes: median |rel change| 5.0% [range 1.6%, 21.1%]
 - Rows: 2401.13275, 2404.14723, jmir-e76048
 
 ## C3: preference optimization reduces SFT abstention over-refusal
@@ -31,11 +31,11 @@ Method: vote counting + exact binomial sign test per claim family; descriptive n
 ## C5: targeted training interventions improve humility metrics
 
 - Studies supporting: **10** | contradicting: **0** | sign-test p = 0.0020
-- Effect sizes: median |rel change| 38.8% [range -80.6%, 40.4%]
+- Effect sizes: median |rel change| 30.1% [range -80.6%, 40.2%]
 - Rows: 2308.03958, 2311.08401, 2311.08596, 2311.09677, 2312.07000, 2402.00367, 2405.01525, 2405.21028, 2410.09724, 2505.01997
 
 ## Variance-aware rows (the only ones in the corpus)
 
-- SycEval: sycophancy rate = 58.19 (persistence 78.5% (CI 77.2-79.8) — rare CI)
+- SycEval: sycophancy rate = 58.19 (persistence 78.5% (CI 77.2-79.8) — rare CI; VERIFIED 2026-06-10 (also progressive 43.52 / regressive 14.66))
 - Base models not sycophantic: % match user view = 52.6 (CI 52.3-53.0; sycophancy appears only after feedback tuning)
 - Clinical SFT vs DPO: clinical reasoning accuracy = nan (p=0.003 — rare p-value; Mistral +7% p=0.004)

diff --git a/library/notes/2109.07958--truthfulqa.md b/library/notes/2109.07958--truthfulqa.md
@@ -4,7 +4,7 @@ arxiv: '2109.07958'
 year: 2021
 url: https://arxiv.org/abs/2109.07958
 area: datasets-benchmarks
-status: fetched
+status: verified
 tags:
 - paper
 - epistemic-humility

diff --git a/library/notes/2212.09251--model-written-evals.md b/library/notes/2212.09251--model-written-evals.md
@@ -4,7 +4,7 @@ arxiv: '2212.09251'
 year: 2022
 url: https://arxiv.org/abs/2212.09251
 area: sycophancy
-status: fetched
+status: verified
 tags:
 - paper
 - epistemic-humility

diff --git a/library/notes/2305.14251--factscore.md b/library/notes/2305.14251--factscore.md
@@ -4,7 +4,7 @@ arxiv: '2305.14251'
 year: 2023
 url: https://arxiv.org/abs/2305.14251
 area: datasets-benchmarks
-status: fetched
+status: verified
 tags:
 - paper
 - epistemic-humility

diff --git a/library/notes/2305.14975--just-ask-for-calibration.md b/library/notes/2305.14975--just-ask-for-calibration.md
@@ -4,7 +4,7 @@ arxiv: '2305.14975'
 year: 2023
 url: https://arxiv.org/abs/2305.14975
 area: calibration
-status: fetched
+status: verified
 tags:
 - paper
 - epistemic-humility

diff --git a/library/notes/2305.18153--selfaware-know-what-they-dont-know.md b/library/notes/2305.18153--selfaware-know-what-they-dont-know.md
@@ -4,7 +4,7 @@ arxiv: '2305.18153'
 year: 2023
 url: https://arxiv.org/abs/2305.18153
 area: datasets-benchmarks
-status: fetched
+status: verified
 tags:
 - paper
 - epistemic-humility

diff --git a/library/notes/2306.13063--can-llms-express-uncertainty.md b/library/notes/2306.13063--can-llms-express-uncertainty.md
@@ -4,7 +4,7 @@ arxiv: '2306.13063'
 year: 2023
 url: https://arxiv.org/abs/2306.13063
 area: calibration
-status: fetched
+status: verified
 tags:
 - paper
 - epistemic-humility

diff --git a/library/notes/2311.08401--finetuning-for-factuality.md b/library/notes/2311.08401--finetuning-for-factuality.md
@@ -4,7 +4,7 @@ arxiv: '2311.08401'
 year: 2023
 url: https://arxiv.org/abs/2311.08401
 area: methods
-status: fetched
+status: verified
 tags:
 - paper
 - epistemic-humility